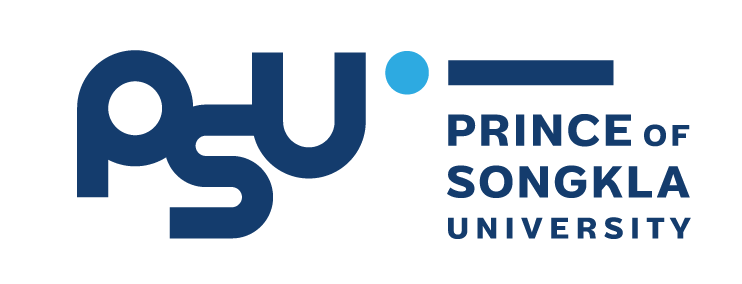
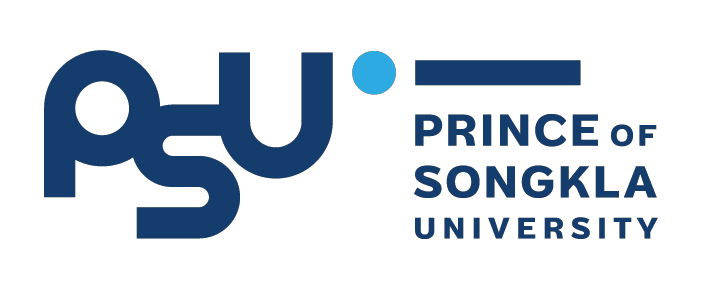
Edit CSS(login page)

diff --git a/client-ts/src/pages/Login.css b/client-ts/src/pages/Login.css
@@ -1,4 +1,7 @@
-.login-container {
+  .login-container {
+    background-color: #EAEDED;
+    background-size: cover;
+    background-position: center;
     height: 100vh;
     width: 100%;
     display: flex;
@@ -17,38 +20,12 @@
     text-align: center;
     flex: 1;
     margin-top: 0px;
-    margin-bottom: 0px;
-  }
-  
-  .login-button:hover {
-    background-color: #2980b9;
-    color: #fff;
-    cursor: pointer;
-  }
-  
-  .login-button {
-    transition: background-color 0.3s ease-in-out, color 0.3s ease-in-out;
-  }
-  
-  .button-container {
-    width: 200%;
-    text-align: center;
-  }
-  
-  .login-button {
-    background-color: white;
-    color: #2980b9;
-    padding: 10px 20px;
-    border-radius: 4px;
-    width: 7.5%;
-    height: 100%;
-    font-size: 20px;
-    font-weight: bold;
+    margin-bottom: 20px;
   }
   
   .logo-img {
-    width: 45%;
-    height: 45%;
+    width: 100%;
+    height: 100%;
   }
   
   .center-button {
@@ -68,8 +45,77 @@
   .text-content-wrapper {
     margin-bottom: 20px;
   }
+
+  .login-button {
+    --b: 3px;
+    --s: .45em;
+    --color: #373B44;
   
-  .text-content {
-    font-family: 'Open Sans', sans-serif;
-    font-size: 30px;
+    padding: calc(.5em + var(--s)) calc(.9em + var(--s));
+    color: var(--color);
+    --_p: var(--s);
+    background:
+      conic-gradient(from 90deg at var(--b) var(--b),#0000 90deg,var(--color) 0)
+      var(--_p) var(--_p)/calc(100% - var(--b) - 2*var(--_p)) calc(100% - var(--b) - 2*var(--_p));
+    transition: .3s linear, color 0s, background-color 0s;
+    outline: var(--b) solid #0000;
+    outline-offset: .6em;
+    font-family: 'Courier New';
+    font-weight: bold;
+    font-size: 24px;
+
+    border: 0;
+
+    user-select: none;
+    -webkit-user-select: none;
+    touch-action: manipulation;
+  }
+
+  .login-button:hover,
+  .login-button:focus-visible{
+    --_p: 0px;
+    outline-color: var(--color);
+    outline-offset: .05em;
+  }
+
+  .login-button:active {
+    background: var(--color);
+    color: #fff;
+  }
+
+  .hit-the-floor {
+    text-transform: uppercase;
+    background-image: linear-gradient(
+      -225deg,
+      #154360 0%,
+      #1F618D 29%,
+      #2980B9 67%,
+      #7FB3D5 100%
+    );
+    background-size: auto auto;
+    background-clip: border-box;
+    background-size: 200% auto;
+    color: #fff;
+    background-clip: text;
+    -webkit-background-clip: text;
+    -webkit-text-fill-color: transparent;
+    animation: textclip 2s linear infinite;
+    display: inline-block;
+    font-family: 'Baloo Tamma', sans-serif;
+    font-size: 40px;
+    font-weight: bold;
+  }
+  
+  .hit-the-floor {
+    text-align: center;
+  }
+
+  @keyframes textclip {
+    to {
+      background-position: 200% center;
+    }
+  }
+  
+  body {
+    background-color: #f1f1f1;
   }

diff --git a/client-ts/src/pages/login.tsx b/client-ts/src/pages/login.tsx
@@ -49,7 +49,7 @@ function Login() {
         <Navigate to={backTo} replace />
       );
     } else {
-      return <div>Waiting for whoami</div>;
+      return <div>Waiting a minute...</div>;
     }
   }
 
@@ -61,12 +61,12 @@ function Login() {
             <img src={require('../image/psu.png')} alt="Logo" className="logo-img" />
           </div>
           <div className="text-content-wrapper">
-            <div className="text-content">Welcome to PSU Announcement!</div>
+            <div className="hit-the-floor">Welcome to PSU Announcement</div>
           </div>
         </div>
-        <div className="button-container">
+        <div>
           <button className="login-button" onClick={() => void auth.signinRedirect()}>
-            Log in
+            Enter Website
           </button>
         </div>
       </div>
